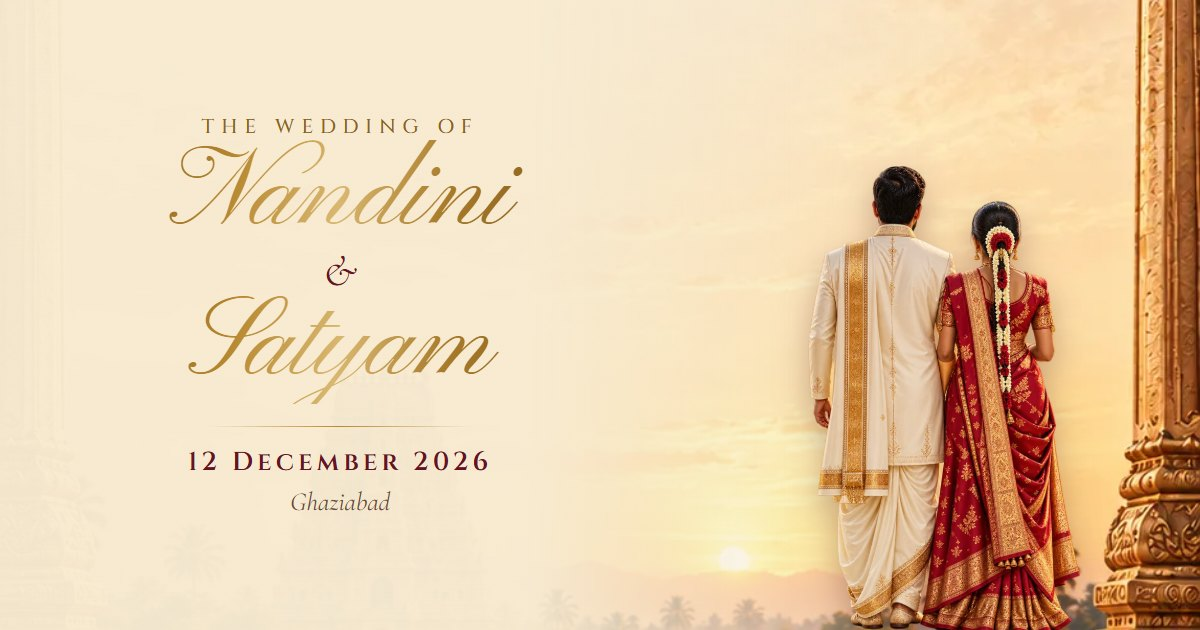
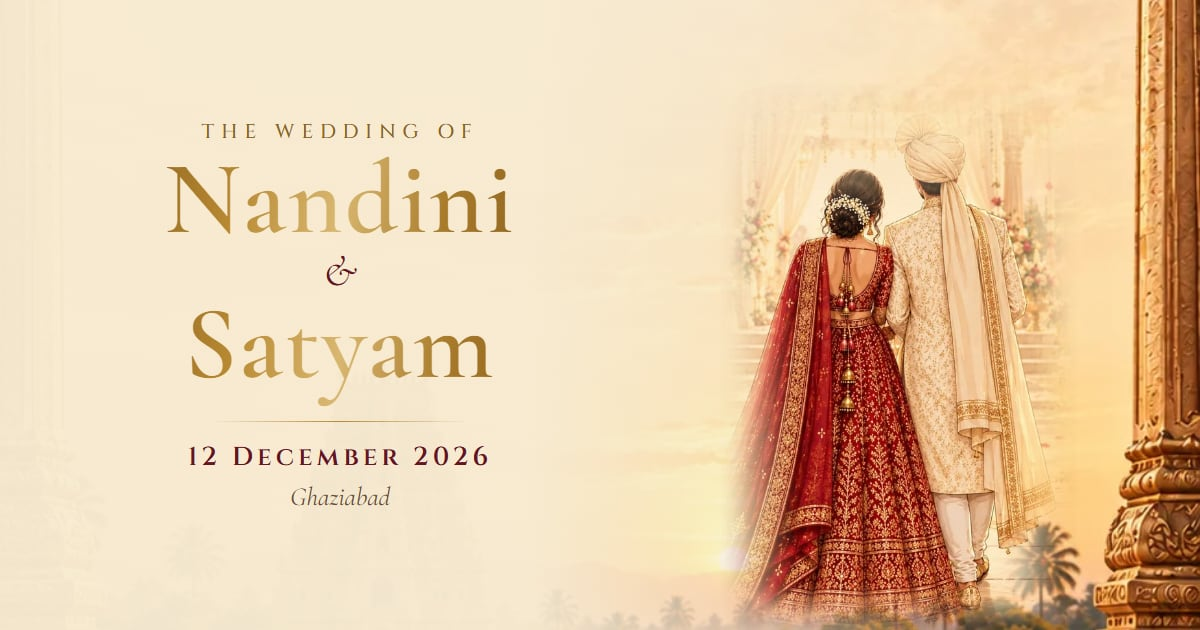
Apply client revisions to nandini-satyam-wedding invitation
- Names and initials in a clear upright serif instead of script
- Bride's grandparents and groom's mother added to the family section
- Capitalisation fixed in event titles, venues and timings; BARAT and
  TARRON KI CHAAON in capitals; Pheras & Forever uses the same title font
- Wedding-ring icon for Shagna Di Shaam, havan icon for Pheras
- North Indian couple artwork in the hero (from client reference)
- Client's Argan Hall photo in The Venue
- Link preview image updated to match

diff --git a/public/nandini-satyam-wedding/config.js b/public/nandini-satyam-wedding/config.js
@@ -19,16 +19,16 @@ export const weddingConfig = {
 
   weddingDate: '2026-12-12T19:00:00+05:30',
   weddingEnd: '2026-12-12T23:00:00+05:30',
-  weddingTimeLabel: '7 pm barat',
+  weddingTimeLabel: '7 PM BARAT',
   ceremonyTitle: 'Pheras & Forever',
-  ceremonyLine: 'Traditions in our hearts, forever in our promises.<br>“Saat phere, lakh khushiyan, te ik sohni jehi zindagi.',
+  ceremonyLine: 'Traditions in our hearts, forever in our promises.<br>“Saat phere, lakh khushiyan, te ik sohni jehi zindagi.”',
   muhurtham: '',
 
   venue: 'Vishnu Green Argan Hall',
   venueAddress: 'Plot No. 1250, G.T. Road, NH-91, Lal Kuan, Ghaziabad – 201009',
   venueCity: 'Ghaziabad',
   mapsUrl: 'https://share.google/uxsBfOmI0Gay2BkdC',
-  venueImage: 'assets/gallery-gopuram.webp',
+  venueImage: 'assets/venue-argan-hall.webp', // the hall front the client supplied
 
   welcome: {
     title: 'Welcome',
@@ -48,49 +48,49 @@ export const weddingConfig = {
       person: 'Nandini',
       relation: 'Daughter of',
       parents: ['Smt. Sheetal Dhall', 'Sh. Sanjeev Kumar Dhall'],
-      grandparents: '',
+      grandparents: 'Granddaughter of Late Shree Radhey Shyam Dhall & Late Shrimati Darshana Rani Dhall',
     },
     groom: {
       label: "Groom's Family",
       person: 'Satyam',
       relation: 'Son of',
-      parents: ['Mr. Gulveer Parashar'],
+      parents: ['Mr. Gulveer Parashar', 'Smt. Sushma Sharma'],
       grandparents: 'Grandson of Smt. Ram Murti Devi & Late Sh. Krishan Prakash Parashar',
     },
   },
 
   familyOrder: ['bride', 'groom'], // bride-side invitation: bride's family first
 
-  /* icon: vratham | nichayam | haldi | mehendi | sangeet | muhurtham | reception */
+  /* icon: vratham | nichayam | ring | haldi | mehendi | sangeet | muhurtham | forever | reception */
   /* client wording verbatim; details = [label, value] rows */
   events: [
-    { icon: 'vratham', name: 'SHRI HANUMAN JI KA AASHIRWAD', date: '2026-11-28T16:00:00+05:30',
+    { icon: 'vratham', name: 'Shri Hanuman Ji Ka Aashirwad', date: '2026-11-28T16:00:00+05:30',
       subtitle: 'Sunderkand Paath & Bhajan Sandhya',
       lines: ['Jai Shri Ram, Jai Hanuman — har shubh kaarya mein Prabhu ka aashirwad.'],
       details: [['Time', '4:00 PM onwards']],
       note: 'The Paath will conclude with Bhog and Prasad at 7:00 PM.',
-      venue: 'at our residence Gagan enclave Amrit nagar Ghaziabad',
+      venue: 'At our residence, Gagan Enclave, Amrit Nagar, Ghaziabad',
       maps: 'https://share.google/QvsvtZtR8V6GK4EKV' },
-    { icon: 'sangeet', name: 'Shagna Di Shaam', date: '2026-12-08T19:00:00+05:30',
+    { icon: 'ring', name: 'Shagna Di Shaam', date: '2026-12-08T19:00:00+05:30',
       subtitle: 'Pyaar de rang, shagna de sang',
       lines: ['Do dil mile, ik rishta judeya,', 'Khushiyan naal har vehda sajeya.', 'Dhol di thaap te nachan saare,', 'Aao ral-mil manayiye pal eh pyaare!'],
-      details: [['Time', '7 pm'], ['Dinner', '8 pm']],
+      details: [['Time', '7 PM'], ['Dinner', '8 PM']],
       venue: 'Velvet Leaf by Melrose Hotel, Marco Polo Road, Near Raj Nagar Extension, U.P. – 201017',
       maps: 'https://share.google/A1SkFrTF34qgIxYrY' },
-    { icon: 'mehendi', name: 'Mehndi mela', date: '2026-12-11T19:00:00+05:30',
-      subtitle: 'Drama , giggles and heena that refuses to dry',
-      details: [['Time', '7 pm onwards']],
-      venue: 'Clubhouse Gagan enclave amrit nagar Ghaziabad',
+    { icon: 'mehendi', name: 'Mehndi Mela', date: '2026-12-11T19:00:00+05:30',
+      subtitle: 'Drama, giggles and heena that refuses to dry',
+      details: [['Time', '7 PM onwards']],
+      venue: 'Clubhouse, Gagan Enclave, Amrit Nagar, Ghaziabad',
       maps: 'https://share.google/QvsvtZtR8V6GK4EKV' },
-    { icon: 'haldi', name: 'The haldi hangover', date: '2026-12-12T09:00:00+05:30',
+    { icon: 'haldi', name: 'The Haldi Hangover', date: '2026-12-12T09:00:00+05:30',
       lines: ['Oye Hoye! Saadi Dulhan Da Din Aa Gaya!', 'Choora chadhega, ghadoli sajegi,', 'Dhol vajjega te saari family nachhegi!', 'Thodi jehi rasam, bahut saari masti,'],
-      details: [['Time', '9 am morning']],
-      venue: 'at our residence B-15 second floor Gagan enclave Amrit nagar Ghaziabad',
+      details: [['Time', '9 AM morning']],
+      venue: 'At our residence, B-15, Second Floor, Gagan Enclave, Amrit Nagar, Ghaziabad',
       maps: 'https://share.google/QvsvtZtR8V6GK4EKV' },
-    { icon: 'muhurtham', name: 'Pheras & Forever', date: '2026-12-12T19:00:00+05:30', main: true,
+    { icon: 'forever', name: 'Pheras & Forever', date: '2026-12-12T19:00:00+05:30', main: true,
       subtitle: 'Traditions in our hearts, forever in our promises.',
-      lines: ['“Saat phere, lakh khushiyan, te ik sohni jehi zindagi.'],
-      details: [['Time', '7 pm barat'], ['Dinner', '8 pm'], ['Dolli', 'tarron ki chaaon']],
+      lines: ['“Saat phere, lakh khushiyan, te ik sohni jehi zindagi.”'],
+      details: [['Time', '7 PM BARAT'], ['Dinner', '8 PM'], ['Dolli', 'TARRON KI CHAAON']],
       venue: 'Vishnu Green Argan Hall, Plot No. 1250, G.T. Road, NH-91, Lal Kuan, Ghaziabad – 201009',
       maps: 'https://share.google/uxsBfOmI0Gay2BkdC' },
   ],
@@ -108,7 +108,7 @@ export const weddingConfig = {
   travel: [
     { icon: 'pin', title: 'Vishnu Green Argan Hall', text: 'Vishnu Green Argan Hall, Plot No. 1250, G.T. Road, NH-91, Lal Kuan, Ghaziabad – 201009', link: { label: 'Wedding map', href: 'https://share.google/uxsBfOmI0Gay2BkdC' } },
     { icon: 'pin', title: 'Velvet Leaf by Melrose Hotel', text: 'Velvet Leaf by Melrose Hotel, Marco Polo Road, Near Raj Nagar Extension, U.P. – 201017', link: { label: 'Open in Maps', href: 'https://share.google/A1SkFrTF34qgIxYrY' } },
-    { icon: 'pin', title: 'Gagan enclave, Amrit nagar', text: 'at our residence B-15 second floor Gagan enclave Amrit nagar Ghaziabad', link: { label: 'Open in Maps', href: 'https://share.google/QvsvtZtR8V6GK4EKV' } },
+    { icon: 'pin', title: 'Gagan Enclave, Amrit Nagar', text: 'At our residence, B-15, Second Floor, Gagan Enclave, Amrit Nagar, Ghaziabad', link: { label: 'Open in Maps', href: 'https://share.google/QvsvtZtR8V6GK4EKV' } },
   ],
 
   contact: null,

diff --git a/public/nandini-satyam-wedding/css/invite.css b/public/nandini-satyam-wedding/css/invite.css
@@ -17,6 +17,7 @@
   --serif: 'Cormorant Garamond', 'Cormorant', Georgia, serif;
   --caps: 'Cinzel', 'Cormorant Garamond', serif;
   --script: 'Pinyon Script', 'Great Vibes', cursive;
+  --names: 'Cormorant Garamond', 'Cormorant', Georgia, serif; /* couple names + initials: clear upright serif, no script (client revision) */
   --ease: cubic-bezier(.2, .7, .2, 1);
   --gutter: clamp(44px, 12.5vw, 56px);
   color-scheme: light;
@@ -191,8 +192,10 @@ html.is-open .intro-bloom { animation: bloom 1.6s ease-out; }
 .names { margin: 2px 0 0; font-weight: 400; line-height: 1; }
 .names .name {
   display: block;
-  font-family: var(--script);
-  font-size: min(15vw, 7svh, 64px);
+  font-family: var(--names);
+  font-weight: 600;
+  font-size: min(14vw, 6.6svh, 60px);
+  letter-spacing: .02em;
   line-height: 1.1;
   padding: 0 .2em;
   filter: drop-shadow(0 1px 0 rgba(255, 248, 230, .8));
@@ -274,7 +277,7 @@ html.is-sealed .petal { animation-play-state: paused; }
 
 /* ══ families ════════════════════════════════════════════ */
 .family { padding: 4px 0; }
-.family-person { margin: 2px 0 0; font-family: var(--script); font-size: 50px; line-height: 1.2; padding: 0 .2em; }
+.family-person { margin: 2px 0 0; font-family: var(--names); font-weight: 600; font-size: 44px; letter-spacing: .02em; line-height: 1.2; padding: 0 .2em; }
 .family-rel { margin: 0; font-style: italic; font-size: 16px; color: var(--ink-soft); }
 .family-parents { margin: 6px 0 0; font-family: var(--caps); font-size: 13.5px; letter-spacing: .07em; line-height: 1.75; color: var(--maroon); }
 .family-gp { margin: 8px auto 0; max-width: 250px; font-style: italic; font-size: 14.5px; line-height: 1.45; color: var(--ink-soft); }
@@ -297,7 +300,6 @@ html.is-sealed .petal { animation-play-state: paused; }
 .t-venue { margin: 2px 0 0; font-style: italic; font-size: 15.5px; line-height: 1.35; color: var(--ink); }
 .t-text { margin: 4px 0 0; font-size: 15.5px; line-height: 1.45; color: var(--ink-soft); }
 .t-item.is-main .t-medal { background: radial-gradient(circle at 50% 35%, #7c1d2c, #4a0e18); box-shadow: 0 0 0 1px var(--gold), 0 0 0 4px var(--paper), 0 0 0 5px rgba(184, 137, 50, .5), 0 8px 18px -6px rgba(74, 14, 24, .5); }
-.t-item.is-main .t-name { font-family: var(--script); font-weight: 400; font-size: 36px; line-height: 1.1; }
 
 /* ══ ceremony ════════════════════════════════════════════ */
 .ceremony { padding-top: 10px; }
@@ -339,7 +341,7 @@ html.is-sealed .petal { animation-play-state: paused; }
 /* ══ venue ═══════════════════════════════════════════════ */
 .venue-frame { position: relative; margin: 8px auto 20px; width: 100%; height: 300px; border-radius: 150px 150px 4px 4px; overflow: hidden; box-shadow: 0 20px 32px -20px rgba(74, 14, 24, .6); }
 .venue-frame::after { content: ''; position: absolute; inset: 8px; border: 1px solid rgba(240, 214, 160, .8); border-radius: 142px 142px 2px 2px; pointer-events: none; }
-.venue-frame img { width: 100%; height: 118%; margin-top: -9%; object-fit: cover; }
+.venue-frame img { width: 100%; height: 118%; margin-top: -9%; object-fit: cover; object-position: 48% 50%; } /* keeps the ARGAN HALL sign centred */
 .venue-name { margin: 0; font-weight: 600; font-size: 22px; line-height: 1.25; color: var(--maroon); }
 .venue-addr { margin: 6px auto 20px; max-width: 260px; font-style: italic; font-size: 16px; line-height: 1.45; color: var(--ink-soft); }
 
@@ -600,7 +602,7 @@ html.is-open .intro.is-skipped .intro-video { transform: none; transition: none;
 /* monogram */
 .monogram { position: relative; width: 108px; height: 108px; margin: 4px auto 2px; display: flex; align-items: center; justify-content: center; }
 .monogram-ring { position: absolute; inset: 0; width: 100%; height: 100%; stroke-width: 1; }
-.monogram span { position: relative; font-family: var(--serif); font-style: italic; font-weight: 500; font-size: 40px; line-height: 1; padding: 0 .06em; }
+.monogram span { position: relative; font-family: var(--names); font-weight: 600; font-size: 40px; line-height: 1; padding: 0 .06em; }
 .intro-guest span.amp-i, .dear span.amp-i { font-family: var(--serif); font-style: italic; font-size: .72em; padding: 0 .1em; }
 .monogram .mono-a { transform: translate(4px, -6px); }
 .monogram .mono-b { transform: translate(-4px, 8px); }
@@ -633,7 +635,7 @@ html.is-open .intro.is-skipped .intro-video { transform: none; transition: none;
   background: radial-gradient(circle at 50% 30%, #7c1d2c, #4a0e18);
   box-shadow: 0 0 0 1px var(--gold), 0 0 0 4px var(--paper), 0 0 0 5px rgba(184, 137, 50, .45), 0 10px 18px -8px rgba(74, 14, 24, .55);
 }
-.cameo span { font-family: var(--script); font-size: 36px; line-height: 1; color: #ecd3a0; transform: translateY(3px); }
+.cameo span { font-family: var(--names); font-weight: 600; font-size: 32px; line-height: 1; color: #ecd3a0; transform: translateY(3px); }
 
 /* events: status, attire, actions */
 .t-status { display: inline-block; margin-left: 8px; padding: 2px 8px 1px; border-radius: 999px; background: var(--maroon); color: #f3dfb4; font-size: 8px; font-weight: 600; letter-spacing: .18em; vertical-align: 1px; }

diff --git a/tools/nandini-satyam-og.html b/tools/nandini-satyam-og.html
@@ -1,0 +1,34 @@
+<!DOCTYPE html>
+<!-- Link-preview card for public/nandini-satyam-wedding (1200×630), names in the clear serif the client asked for. Rendered with headless Chrome:
+     open as file:///…/tools/hindu-south-og.html?a=Nandini&b=Satyam&d=12%20December%202026&p=Ghaziabad
+     and screenshot the 1200×630 viewport to public/nandini-satyam-wedding/assets/og.jpg -->
+<html><head><meta charset="utf-8">
+<link href="https://fonts.googleapis.com/css2?family=Cinzel:wght@500;600&family=Cormorant+Garamond:ital,wght@0,600;1,400&display=block" rel="stylesheet">
+<style>
+  html, body { margin: 0; width: 1200px; height: 630px; overflow: hidden; background: #f4e4ca; }
+  .art { position: absolute; inset: 0; background: url(../public/nandini-satyam-wedding/assets/hero-arch.webp) center 62% / cover; }
+  .art::after { content: ''; position: absolute; inset: 0; background: linear-gradient(90deg, rgba(247, 235, 210, .97) 0 44%, rgba(247, 235, 210, .55) 62%, rgba(247, 235, 210, 0) 80%); }
+  .couple { position: absolute; right: 120px; bottom: -6px; height: 560px; }
+  .copy { position: absolute; left: 80px; top: 0; bottom: 0; width: 520px; display: flex; flex-direction: column; justify-content: center; text-align: center; }
+  .eyebrow { font: 500 20px Cinzel, serif; letter-spacing: .34em; color: #8c621d; }
+  .name { font: 600 104px/1.05 'Cormorant Garamond', serif; letter-spacing: .02em; padding-bottom: .1em; margin-bottom: -.1em; background: linear-gradient(100deg, #7d5518, #b88932 30%, #d9b770 50%, #a87a2a 70%, #7d5518); -webkit-background-clip: text; color: transparent; }
+  .amp { font: italic 44px 'Cormorant Garamond', serif; color: #651522; line-height: .8; }
+  .rule { width: 260px; height: 1px; margin: 22px auto 18px; background: linear-gradient(90deg, transparent, #b88932, transparent); }
+  .date { font: 600 26px Cinzel, serif; letter-spacing: .16em; color: #651522; }
+  .place { margin-top: 6px; font: italic 26px 'Cormorant Garamond', serif; color: #6a4b35; }
+</style></head>
+<body>
+  <div class="art"></div>
+  <img class="couple" src="../public/nandini-satyam-wedding/assets/couple.webp" alt="">
+  <div class="copy">
+    <div class="eyebrow">THE WEDDING OF</div>
+    <div class="name" id="a"></div><div class="amp">&amp;</div><div class="name" id="b"></div>
+    <div class="rule"></div>
+    <div class="date" id="d"></div>
+    <div class="place" id="p"></div>
+  </div>
+  <script>
+    const q = new URLSearchParams(location.search);
+    for (const k of ['a', 'b', 'd', 'p']) document.getElementById(k).textContent = q.get(k) || '';
+  </script>
+</body></html>

diff --git a/public/nandini-satyam-wedding/js/decor.js b/public/nandini-satyam-wedding/js/decor.js
@@ -23,6 +23,7 @@ const ICONS = {
   lotus: `<path d="M24 8c4 6 4 14 0 20-4-6-4-14 0-20z"/><path d="M24 28c-6-2-12-8-13-15 6 2 11 7 13 15zM24 28c6-2 12-8 13-15-6 2-11 7-13 15z"/><path d="M24 28c-8 1-16-2-20-8 7-1 15 2 20 8zM24 28c8 1 16-2 20-8-7-1-15 2-20 8z"/><path d="M12 33q12 4 24 0"/>`,
   vratham: null, // falls back to kalasha
   nichayam: `<ellipse cx="24" cy="34" rx="17" ry="5"/><path d="M8 33c0 4 7 7 16 7s16-3 16-7"/><path d="M14 31c-2-6 1-12 7-14-1 6-3 10-7 14zM34 31c2-6-1-12-7-14 1 6 3 10 7 14z"/><circle cx="24" cy="24" r="6"/><path d="M24 18v-4m-2 1 2-3 2 3"/>`,
+  ring: `<circle cx="24" cy="31" r="10.5"/><circle cx="24" cy="31" r="7.8"/><path d="M17 13l3.4-4.4h7.2L31 13l-7 7.2z"/><path d="M17 13h14M20.4 8.6l3.6 4.4 3.6-4.4M24 13v7.2"/><path d="M38 9l1.2-2.6M40.5 13.5l2.8-.8M10 9l-1.2-2.6M7.5 13.5l-2.8-.8"/>`,
   haldi: `<path d="M8 26h32c0 8-7 14-16 14S8 34 8 26z"/><path d="M13 26c1-5 5-8 11-8s10 3 11 8"/><path d="M30 18l9-10"/><circle cx="18" cy="23" r=".8"/><circle cx="25" cy="21" r=".8"/><circle cx="29" cy="24" r=".8"/><path d="M18 40l-2 4h16l-2-4"/>`,
   mehendi: `<path d="M17 42V24c0-2 3-2 3 0v-11c0-2 3-2 3 0v10-13c0-2 3-2 3 0v13-10c0-2 3-2 3 0v13-5c0-2 3-2 3 0v13c0 6-4 10-9 10s-9-3-9-6z"/><circle cx="25" cy="31" r="3"/><path d="M25 25v3M25 34v3M19 31h3M28 31h3"/>`,
   sangeet: `<path d="M10 18c-2 0-3 3-3 6s1 6 3 6M38 18c2 0 3 3 3 6s-1 6-3 6"/><path d="M10 18c6-3 22-3 28 0M10 30c6 3 22 3 28 0"/><path d="M10 18v12M38 18v12M17 17v14M24 16.5v15M31 17v14"/><path d="M16 12l3-4M30 12l-3-4"/>`,
@@ -129,7 +130,7 @@ export const BrassLamp = (cls = '') =>
    </div>`;
 
 export const WeddingCouple = ({ cls = '', eager = false } = {}) =>
-  `<div class="couple ${cls}"><img src="${A}couple.webp" alt="The bride and groom in silk veshti and Kanjeevaram saree, walking together" ${eager ? 'fetchpriority="high"' : 'loading="lazy"'} decoding="async"></div>`;
+  `<div class="couple ${cls}"><img src="${A}couple.webp" alt="The bride in a red bridal lehenga and the groom in an ivory sherwani and safa, walking together to the mandap" ${eager ? 'fetchpriority="high"' : 'loading="lazy"'} decoding="async"></div>`;
 
 /* rose petals drifting down the hero; few, slow, randomised once */
 export const PetalShower = (n = 9) => {
